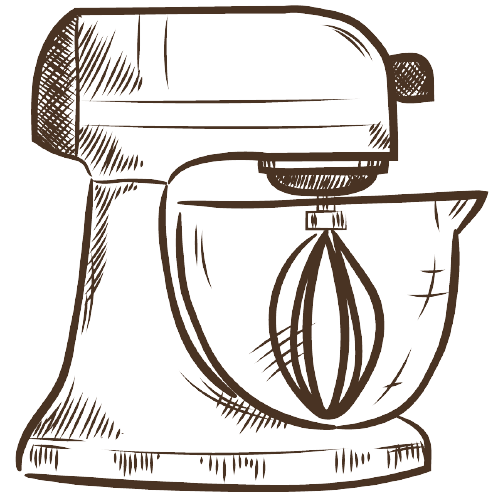
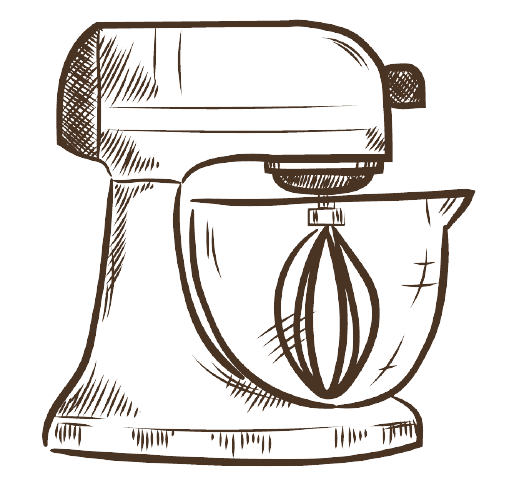
Style shop.html for desktop

Changed region(s): [[0.0301, 0.0, 0.994, 1.0]]

diff --git a/templates/shop.html b/templates/shop.html
@@ -1,105 +1,126 @@
 {% extends "base.html" %}
 
 {% block heading %}
+<img src="{{ url_for('static', filename='images/shop.png') }}" alt="Shop" class="categories-img">
 <h1 class="font-amatic color-493323 text-center">Shop</h1>
-<div class="text-center">
-    <img src="{{ url_for('static', filename='images/shop.png') }}" alt="Shop" class="categories-img">
-</div>
+<img id="glove-top" class="d-none d-lg-inline" src="{{ url_for('static', filename='images/glove.png') }}" alt="glove">
+<img id="glove-bottom" class="d-none d-lg-inline" src="{{ url_for('static', filename='images/glove.png') }}"
+    alt="glove">
 {% endblock %}
 
 {% block content %}
-<section id="section-recipe">
-    <h3 class="recipe-title font-balsamiq color-493323 text-center">Baking Items</h3>
-    <!-- Credit: MDB Cards @ https://mdbootstrap.com/docs/standard/components/cards/ -->
-
-    <div class="card card-shop">
-        <a class="affiliate-img" target="_blank"
-            href="https://www.amazon.co.uk/gp/product/B07N1JB9V7/ref=as_li_tl?ie=UTF8&camp=1634&creative=6738&creativeASIN=B07N1JB9V7&linkCode=as2&tag=tototanaka-21&linkId=b0a8f5ea314bcd705c3d05ce4348a509"><img
-                border="0"
-                src="//ws-eu.amazon-adsystem.com/widgets/q?_encoding=UTF8&MarketPlace=GB&ASIN=B07N1JB9V7&ServiceVersion=20070822&ID=AsinImage&WS=1&Format=_SL250_&tag=tototanaka-21"></a>
-        <div class="card-body">
-            <p class="card-text text-center">
-                Cake Decorating Equipment, Omew 106pcs Cake Decorating Set Cupcake Decorating Kit Baking Supplies with
-                Nonslip Turntable Stand, 54 Numbered Icing Tips and Frosting Tools for Cake DIY
-            </p>
-            <a href="https://www.amazon.co.uk/gp/product/B07N1JB9V7/ref=as_li_tl?ie=UTF8&camp=1634&creative=6738&creativeASIN=B07N1JB9V7&linkCode=as2&tag=tototanaka-21&linkId=b0a8f5ea314bcd705c3d05ce4348a509"
-                class="btn btn-shop" target="_blank">Shop</a>
+<section id="section-shop">
+    <div class="container-fluid">
+        <div class="row">
+            <h3 class="recipe-title font-balsamiq color-493323 text-center">Baking Items</h3>
+            <!-- Credit: MDB Cards @ https://mdbootstrap.com/docs/standard/components/cards/ -->
+            <!-- Baking Item 1 -->
+            <div class="col-md-6 col-lg-4">
+                <div class="card card-shop">
+                    <a class="affiliate-img" target="_blank"
+                        href="https://www.amazon.co.uk/gp/product/B07N1JB9V7/ref=as_li_tl?ie=UTF8&camp=1634&creative=6738&creativeASIN=B07N1JB9V7&linkCode=as2&tag=tototanaka-21&linkId=b0a8f5ea314bcd705c3d05ce4348a509"><img
+                            border="0"
+                            src="//ws-eu.amazon-adsystem.com/widgets/q?_encoding=UTF8&MarketPlace=GB&ASIN=B07N1JB9V7&ServiceVersion=20070822&ID=AsinImage&WS=1&Format=_SL250_&tag=tototanaka-21"></a>
+                    <div class="card-body">
+                        <p class="card-text text-center">
+                            Cake Decorating Equipment, Omew 106pcs Cake Decorating Set Cupcake Decorating Kit Baking
+                            Supplies with
+                            Nonslip Turntable Stand, 54 Numbered Icing Tips and Frosting Tools for Cake DIY
+                        </p>
+                        <a href="https://www.amazon.co.uk/gp/product/B07N1JB9V7/ref=as_li_tl?ie=UTF8&camp=1634&creative=6738&creativeASIN=B07N1JB9V7&linkCode=as2&tag=tototanaka-21&linkId=b0a8f5ea314bcd705c3d05ce4348a509"
+                            class="btn btn-shop" target="_blank">Shop</a>
+                    </div>
+                </div>
+            </div>
+            <!-- Baking Item 2 -->
+            <div class="col-md-6 col-lg-4">
+                <div class="card card-shop">
+                    <a class="affiliate-img" target="_blank"
+                        href="https://www.amazon.co.uk/gp/product/B07B3XVN2V/ref=as_li_tl?ie=UTF8&camp=1634&creative=6738&creativeASIN=B07B3XVN2V&linkCode=as2&tag=tototanaka-21&linkId=4a007a11effec87cdca04ca593c0ef62"><img
+                            border="0"
+                            src="//ws-eu.amazon-adsystem.com/widgets/q?_encoding=UTF8&MarketPlace=GB&ASIN=B07B3XVN2V&ServiceVersion=20070822&ID=AsinImage&WS=1&Format=_SL250_&tag=tototanaka-21"></a>
+                    <div class="card-body">
+                        <p class="card-text text-center">
+                            Set of 8 Non Stick Baking Tray PAN Set Muffin Oven Roasting BAKEWARE Roast New
+                        </p>
+                        <a href="https://www.amazon.co.uk/gp/product/B07B3XVN2V/ref=as_li_tl?ie=UTF8&camp=1634&creative=6738&creativeASIN=B07B3XVN2V&linkCode=as2&tag=tototanaka-21&linkId=4a007a11effec87cdca04ca593c0ef62"
+                            class="btn btn-shop" target="_blank">Shop</a>
+                    </div>
+                </div>
+            </div>
+            <!-- Baking Item 3 -->
+            <div class="col-md-6 col-lg-4">
+                <div class="card card-shop">
+                    <a class="affiliate-img" target="_blank"
+                        href="https://www.amazon.co.uk/gp/product/B089F8XXLM/ref=as_li_tl?ie=UTF8&camp=1634&creative=6738&creativeASIN=B089F8XXLM&linkCode=as2&tag=tototanaka-21&linkId=04f805273943e215c9134adbb83bd723"><img
+                            border="0"
+                            src="//ws-eu.amazon-adsystem.com/widgets/q?_encoding=UTF8&MarketPlace=GB&ASIN=B089F8XXLM&ServiceVersion=20070822&ID=AsinImage&WS=1&Format=_SL250_&tag=tototanaka-21"></a>
+                    <div class="card-body">
+                        <p class="card-text text-center">
+                            Stainless Steel Angled Icing Spatulas,Minkle Palette Icing Spatula Tools Set of 3 with
+                            Non-Slip
+                            Handle
+                            for Baking, Cake Decorating, Smoothing Icing and Cooking, Frosting Pastries, Cupcake
+                        </p>
+                        <a href="https://www.amazon.co.uk/gp/product/B089F8XXLM/ref=as_li_tl?ie=UTF8&camp=1634&creative=6738&creativeASIN=B089F8XXLM&linkCode=as2&tag=tototanaka-21&linkId=04f805273943e215c9134adbb83bd723"
+                            class="btn btn-shop" target="_blank">Shop</a>
+                    </div>
+                </div>
+            </div>
+            <!-- Baking Item 4 -->
+            <div class="col-md-6 col-lg-4">
+                <div class="card card-shop">
+                    <a class="affiliate-img" target="_blank"
+                        href="https://www.amazon.co.uk/gp/product/B07XVF56FM/ref=as_li_tl?ie=UTF8&camp=1634&creative=6738&creativeASIN=B07XVF56FM&linkCode=as2&tag=tototanaka-21&linkId=1fa99ed017ec91b8c0360862ba3ff7a7"><img
+                            border="0"
+                            src="//ws-eu.amazon-adsystem.com/widgets/q?_encoding=UTF8&MarketPlace=GB&ASIN=B07XVF56FM&ServiceVersion=20070822&ID=AsinImage&WS=1&Format=_SL250_&tag=tototanaka-21"></a>
+                    <div class="card-body">
+                        <p class="card-text text-center">
+                            Kenwood Mary Berry Special Edition Chef Elite Stand Mixer for Baking, 3 Bowl Tools, Whisk,
+                            Dough
+                            Hook &
+                            K-Beater, Fast Cakes' Recipe Book, KVC5100C, Cream
+                        </p>
+                        <a href="https://www.amazon.co.uk/gp/product/B07XVF56FM/ref=as_li_tl?ie=UTF8&camp=1634&creative=6738&creativeASIN=B07XVF56FM&linkCode=as2&tag=tototanaka-21&linkId=1fa99ed017ec91b8c0360862ba3ff7a7"
+                            class="btn btn-shop" target="_blank">Shop</a>
+                    </div>
+                </div>
+            </div>
+            <!-- Baking Item 5 -->
+            <div class="col-md-6 col-lg-4">
+                <div class="card card-shop">
+                    <a class="affiliate-img" target="_blank"
+                        href="https://www.amazon.co.uk/gp/product/1846077850/ref=as_li_tl?ie=UTF8&camp=1634&creative=6738&creativeASIN=1846077850&linkCode=as2&tag=tototanaka-21&linkId=ec42897ba3fa8696d83d075a61c6b0bc"><img
+                            border="0"
+                            src="//ws-eu.amazon-adsystem.com/widgets/q?_encoding=UTF8&MarketPlace=GB&ASIN=1846077850&ServiceVersion=20070822&ID=AsinImage&WS=1&Format=_SL250_&tag=tototanaka-21"></a>
+                    <div class="card-body">
+                        <p class="card-text text-center">
+                            Mary Berry's Baking Bible: Over 250 Classic Recipes
+                        </p>
+                        <a href="https://www.amazon.co.uk/gp/product/1846077850/ref=as_li_tl?ie=UTF8&camp=1634&creative=6738&creativeASIN=1846077850&linkCode=as2&tag=tototanaka-21&linkId=ec42897ba3fa8696d83d075a61c6b0bc"
+                            class="btn btn-shop" target="_blank">Shop</a>
+                    </div>
+                </div>
+            </div>
+            <!-- Baking Item 6 -->
+            <div class="col-md-6 col-lg-4">
+                <div class="card card-shop">
+                    <a class="affiliate-img" target="_blank"
+                        href="https://www.amazon.co.uk/gp/product/B01HMITHY2/ref=as_li_tl?ie=UTF8&camp=1634&creative=6738&creativeASIN=B01HMITHY2&linkCode=as2&tag=tototanaka-21&linkId=30e49dae7dfeff4da567995711613f01"><img
+                            border="0"
+                            src="//ws-eu.amazon-adsystem.com/widgets/q?_encoding=UTF8&MarketPlace=GB&ASIN=B01HMITHY2&ServiceVersion=20070822&ID=AsinImage&WS=1&Format=_SL250_&tag=tototanaka-21"></a>
+                    <div class="card-body">
+                        <p class="card-text text-center">
+                            Russell Hobbs 23620 Compact Fast Breadmaker, 660 W, Black - Energy Class A
+                        </p>
+                        <a href="https://www.amazon.co.uk/gp/product/B01HMITHY2/ref=as_li_tl?ie=UTF8&camp=1634&creative=6738&creativeASIN=B01HMITHY2&linkCode=as2&tag=tototanaka-21&linkId=30e49dae7dfeff4da567995711613f01"
+                            class="btn btn-shop" target="_blank">Shop</a>
+                    </div>
+                </div>
+            </div>
         </div>
+        <!-- /End of Credit -->
+        <!-- <div class="blank-space-bottom"></div> This may not be required anymore - check later -->
     </div>
-
-    <div class="card card-shop">
-        <a class="affiliate-img" target="_blank"
-            href="https://www.amazon.co.uk/gp/product/B07B3XVN2V/ref=as_li_tl?ie=UTF8&camp=1634&creative=6738&creativeASIN=B07B3XVN2V&linkCode=as2&tag=tototanaka-21&linkId=4a007a11effec87cdca04ca593c0ef62"><img
-                border="0"
-                src="//ws-eu.amazon-adsystem.com/widgets/q?_encoding=UTF8&MarketPlace=GB&ASIN=B07B3XVN2V&ServiceVersion=20070822&ID=AsinImage&WS=1&Format=_SL250_&tag=tototanaka-21"></a>
-        <div class="card-body">
-            <p class="card-text text-center">
-                Set of 8 Non Stick Baking Tray PAN Set Muffin Oven Roasting BAKEWARE Roast New
-            </p>
-            <a href="https://www.amazon.co.uk/gp/product/B07B3XVN2V/ref=as_li_tl?ie=UTF8&camp=1634&creative=6738&creativeASIN=B07B3XVN2V&linkCode=as2&tag=tototanaka-21&linkId=4a007a11effec87cdca04ca593c0ef62"
-                class="btn btn-shop" target="_blank">Shop</a>
-        </div>
-    </div>
-
-    <div class="card card-shop">
-        <a class="affiliate-img" target="_blank"
-            href="https://www.amazon.co.uk/gp/product/B089F8XXLM/ref=as_li_tl?ie=UTF8&camp=1634&creative=6738&creativeASIN=B089F8XXLM&linkCode=as2&tag=tototanaka-21&linkId=04f805273943e215c9134adbb83bd723"><img
-                border="0"
-                src="//ws-eu.amazon-adsystem.com/widgets/q?_encoding=UTF8&MarketPlace=GB&ASIN=B089F8XXLM&ServiceVersion=20070822&ID=AsinImage&WS=1&Format=_SL250_&tag=tototanaka-21"></a>
-        <div class="card-body">
-            <p class="card-text text-center">
-                Stainless Steel Angled Icing Spatulas,Minkle Palette Icing Spatula Tools Set of 3 with Non-Slip Handle
-                for Baking, Cake Decorating, Smoothing Icing and Cooking, Frosting Pastries, Cupcake
-            </p>
-            <a href="https://www.amazon.co.uk/gp/product/B089F8XXLM/ref=as_li_tl?ie=UTF8&camp=1634&creative=6738&creativeASIN=B089F8XXLM&linkCode=as2&tag=tototanaka-21&linkId=04f805273943e215c9134adbb83bd723"
-                class="btn btn-shop" target="_blank">Shop</a>
-        </div>
-    </div>
-
-    <div class="card card-shop">
-        <a class="affiliate-img" target="_blank"
-            href="https://www.amazon.co.uk/gp/product/B07XVF56FM/ref=as_li_tl?ie=UTF8&camp=1634&creative=6738&creativeASIN=B07XVF56FM&linkCode=as2&tag=tototanaka-21&linkId=1fa99ed017ec91b8c0360862ba3ff7a7"><img
-                border="0"
-                src="//ws-eu.amazon-adsystem.com/widgets/q?_encoding=UTF8&MarketPlace=GB&ASIN=B07XVF56FM&ServiceVersion=20070822&ID=AsinImage&WS=1&Format=_SL250_&tag=tototanaka-21"></a>
-        <div class="card-body">
-            <p class="card-text text-center">
-                Kenwood Mary Berry Special Edition Chef Elite Stand Mixer for Baking, 3 Bowl Tools, Whisk, Dough Hook &
-                K-Beater, Fast Cakes' Recipe Book, KVC5100C, Cream
-            </p>
-            <a href="https://www.amazon.co.uk/gp/product/B07XVF56FM/ref=as_li_tl?ie=UTF8&camp=1634&creative=6738&creativeASIN=B07XVF56FM&linkCode=as2&tag=tototanaka-21&linkId=1fa99ed017ec91b8c0360862ba3ff7a7"
-                class="btn btn-shop" target="_blank">Shop</a>
-        </div>
-    </div>
-
-    <div class="card card-shop">
-        <a class="affiliate-img" target="_blank"
-            href="https://www.amazon.co.uk/gp/product/1846077850/ref=as_li_tl?ie=UTF8&camp=1634&creative=6738&creativeASIN=1846077850&linkCode=as2&tag=tototanaka-21&linkId=ec42897ba3fa8696d83d075a61c6b0bc"><img
-                border="0"
-                src="//ws-eu.amazon-adsystem.com/widgets/q?_encoding=UTF8&MarketPlace=GB&ASIN=1846077850&ServiceVersion=20070822&ID=AsinImage&WS=1&Format=_SL250_&tag=tototanaka-21"></a>
-        <div class="card-body">
-            <p class="card-text text-center">
-                Mary Berry's Baking Bible: Over 250 Classic Recipes
-            </p>
-            <a href="https://www.amazon.co.uk/gp/product/1846077850/ref=as_li_tl?ie=UTF8&camp=1634&creative=6738&creativeASIN=1846077850&linkCode=as2&tag=tototanaka-21&linkId=ec42897ba3fa8696d83d075a61c6b0bc"
-                class="btn btn-shop" target="_blank">Shop</a>
-        </div>
-    </div>
-
-    <div class="card card-shop">
-        <a class="affiliate-img" target="_blank"
-            href="https://www.amazon.co.uk/gp/product/B01HMITHY2/ref=as_li_tl?ie=UTF8&camp=1634&creative=6738&creativeASIN=B01HMITHY2&linkCode=as2&tag=tototanaka-21&linkId=30e49dae7dfeff4da567995711613f01"><img
-                border="0"
-                src="//ws-eu.amazon-adsystem.com/widgets/q?_encoding=UTF8&MarketPlace=GB&ASIN=B01HMITHY2&ServiceVersion=20070822&ID=AsinImage&WS=1&Format=_SL250_&tag=tototanaka-21"></a>
-        <div class="card-body">
-            <p class="card-text text-center">
-                Russell Hobbs 23620 Compact Fast Breadmaker, 660 W, Black - Energy Class A
-            </p>
-            <a href="https://www.amazon.co.uk/gp/product/B01HMITHY2/ref=as_li_tl?ie=UTF8&camp=1634&creative=6738&creativeASIN=B01HMITHY2&linkCode=as2&tag=tototanaka-21&linkId=30e49dae7dfeff4da567995711613f01"
-                class="btn btn-shop" target="_blank">Shop</a>
-        </div>
-    </div>
-
-    <!-- /End of Credit -->
-    <div class="blank-space-bottom"></div>
 </section>
 {% endblock %}

diff --git a/static/css/style.css b/static/css/style.css
@@ -201,7 +201,7 @@ header {
 }
 
 #section-recipe-summary,
-#section-recipe {
+#section-recipe, #section-shop {
     background-color: rgba(251, 234, 222, 0.3);
 }
 
@@ -561,6 +561,10 @@ header {
         width: 20rem;
     }
 
+    .categories-img {
+        width: 18rem;
+    }
+
     .recipe-img-top {
         height: 30vw;
     }
@@ -609,7 +613,7 @@ header {
         padding-top: 10rem;
     }
 
-    #wheat-top, #coffee-top {
+    #wheat-top, #coffee-top, #glove-top {
         opacity: 0.4;
         position: absolute;
         right: 4rem;
@@ -617,7 +621,7 @@ header {
         width: 6rem;
     }
 
-    #wheat-bottom, #coffee-bottom {
+    #wheat-bottom, #coffee-bottom, #glove-bottom {
         opacity: 0.4;
         bottom: 2rem;
         left: 4rem;

diff --git a/templates/base.html b/templates/base.html
@@ -132,7 +132,7 @@
     <!-- Credit: MDB Forms @ https://mdbootstrap.com/docs/standard/forms/overview/ -->
     <footer class="color-fbeade text-center">
         <div class="container p-4 pb-0">
-            <section class="">
+            <section>
                 <form id="form-subscribe-newsletter" method="POST" action="{{ url_for('subscribe_newsletter') }}">
                     <div class="row d-flex justify-content-center">
                         <div class="col-auto">
